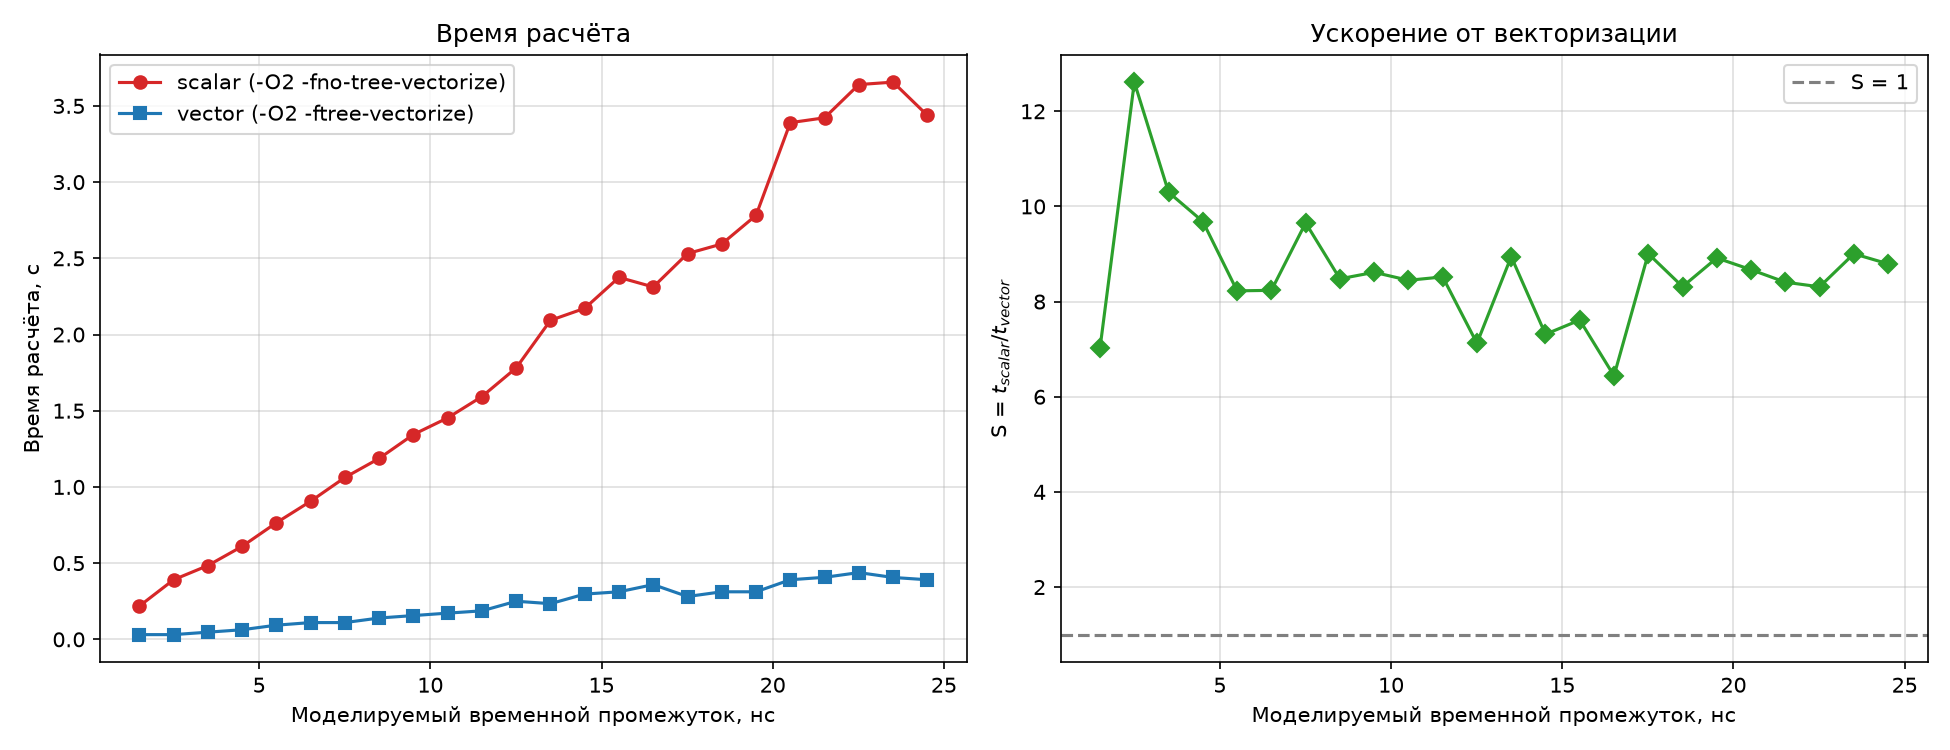
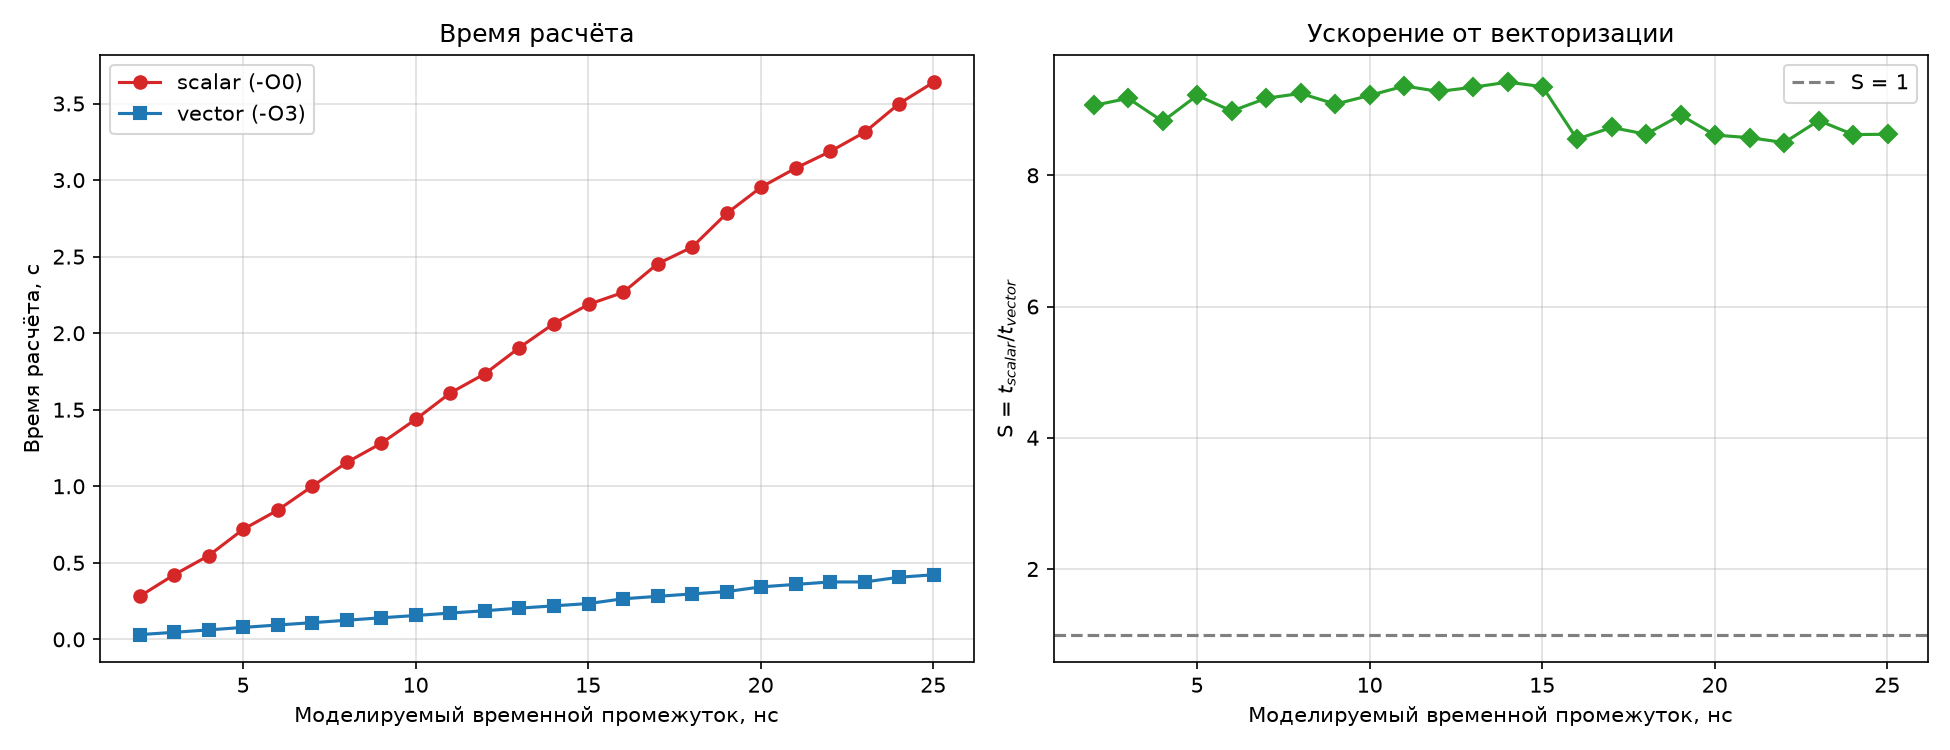
добавил проверку корректности скалярной и векторной реализаций в ЛР2

diff --git a/fdtd2d_fortran/ЛР 2/benchmark.py b/fdtd2d_fortran/ЛР 2/benchmark.py
@@ -151,8 +151,8 @@ def plot_benchmark(rows, path):
     fig, axes = plt.subplots(1, 2, figsize=(13, 5))
 
     # Левый: времена
-    axes[0].plot(nmax, t_s, 'o-', label='scalar (-O2 -fno-tree-vectorize)', color='C3')
-    axes[0].plot(nmax, t_v, 's-', label='vector (-O2 -ftree-vectorize)', color='C0')
+    axes[0].plot(nmax, t_s, 'o-', label='scalar (-O0)', color='C3')
+    axes[0].plot(nmax, t_v, 's-', label='vector (-O3)', color='C0')
     axes[0].set_xlabel('Моделируемый временной промежуток, нс')
     axes[0].set_ylabel('Время расчёта, с')
     axes[0].set_title('Время расчёта')
@@ -219,9 +219,12 @@ plot_benchmark(rows, os.path.join(RESULTS_DIR, 'benchmark.png'))
 nmax_last = NMAX_LIST[-1]
 run_once(EXE_VECTOR, nmax_last)
 
-bin_path = os.path.join(RESULTS_DIR, 'fields2d.bin')
+bin_path_scalar = os.path.join(RESULTS_DIR, 'fields2d_scalar.bin')
+bin_path_vector = os.path.join(RESULTS_DIR, 'fields2d_vector.bin')
 
-data = read_bin(bin_path)
-save_metadata(data, nmax_last, os.path.join(RESULTS_DIR, 'metadata.txt'))
-save_final_image(data, os.path.join(RESULTS_DIR, 'fields2d_final.png'))
-
+data_scalar = read_bin(bin_path_scalar)
+data_vector = read_bin(bin_path_vector)
+save_metadata(data_scalar, nmax_last, os.path.join(RESULTS_DIR, 'metadata_scalar.txt'))
+save_metadata(data_vector, nmax_last, os.path.join(RESULTS_DIR, 'metadata_vector.txt'))
+save_final_image(data_scalar, os.path.join(RESULTS_DIR, 'fields2d_final_scalar.png'))
+save_final_image(data_vector, os.path.join(RESULTS_DIR, 'fields2d_final_vector.png'))
